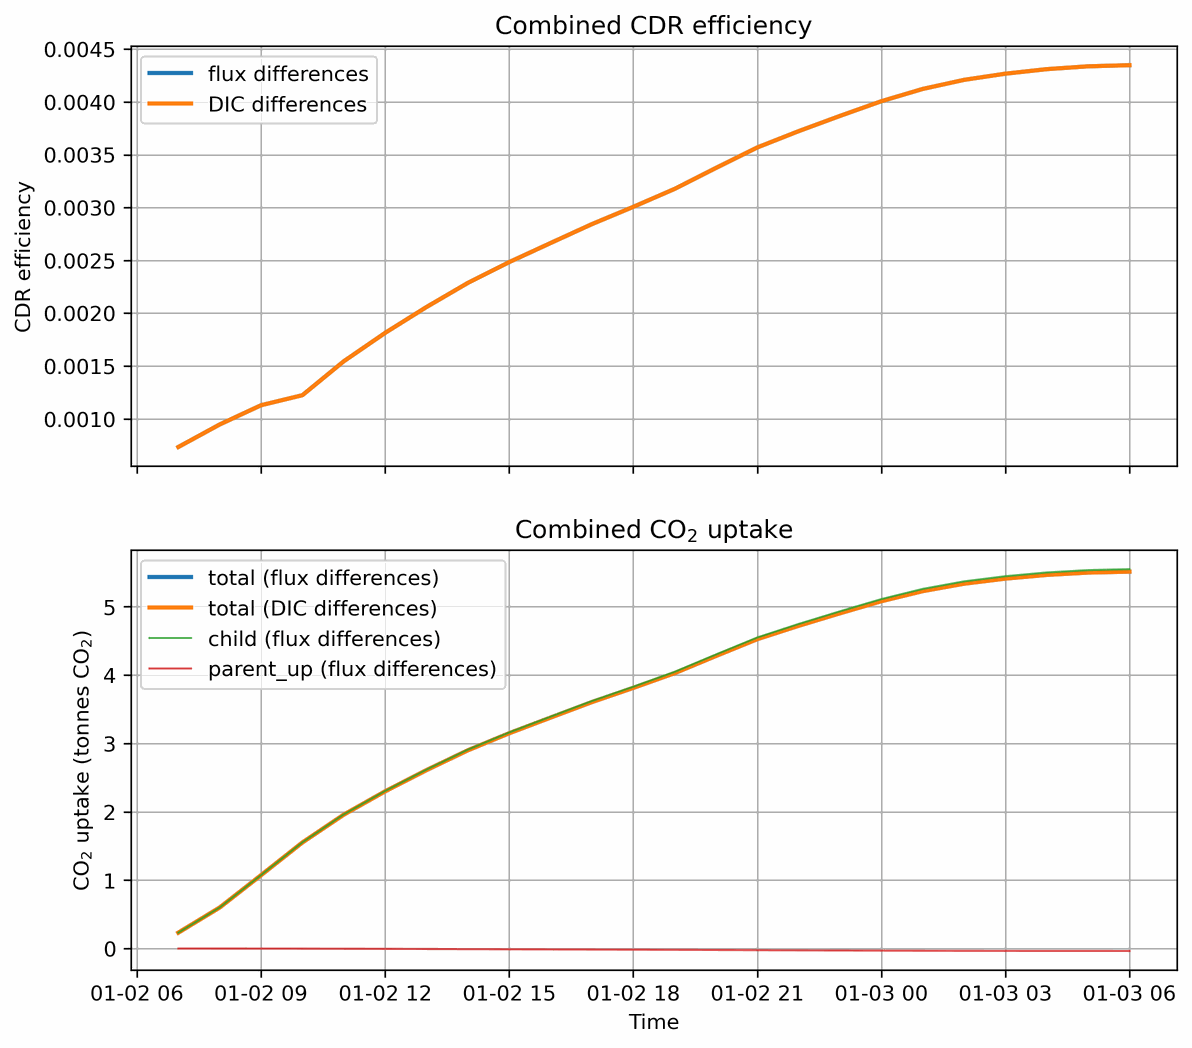
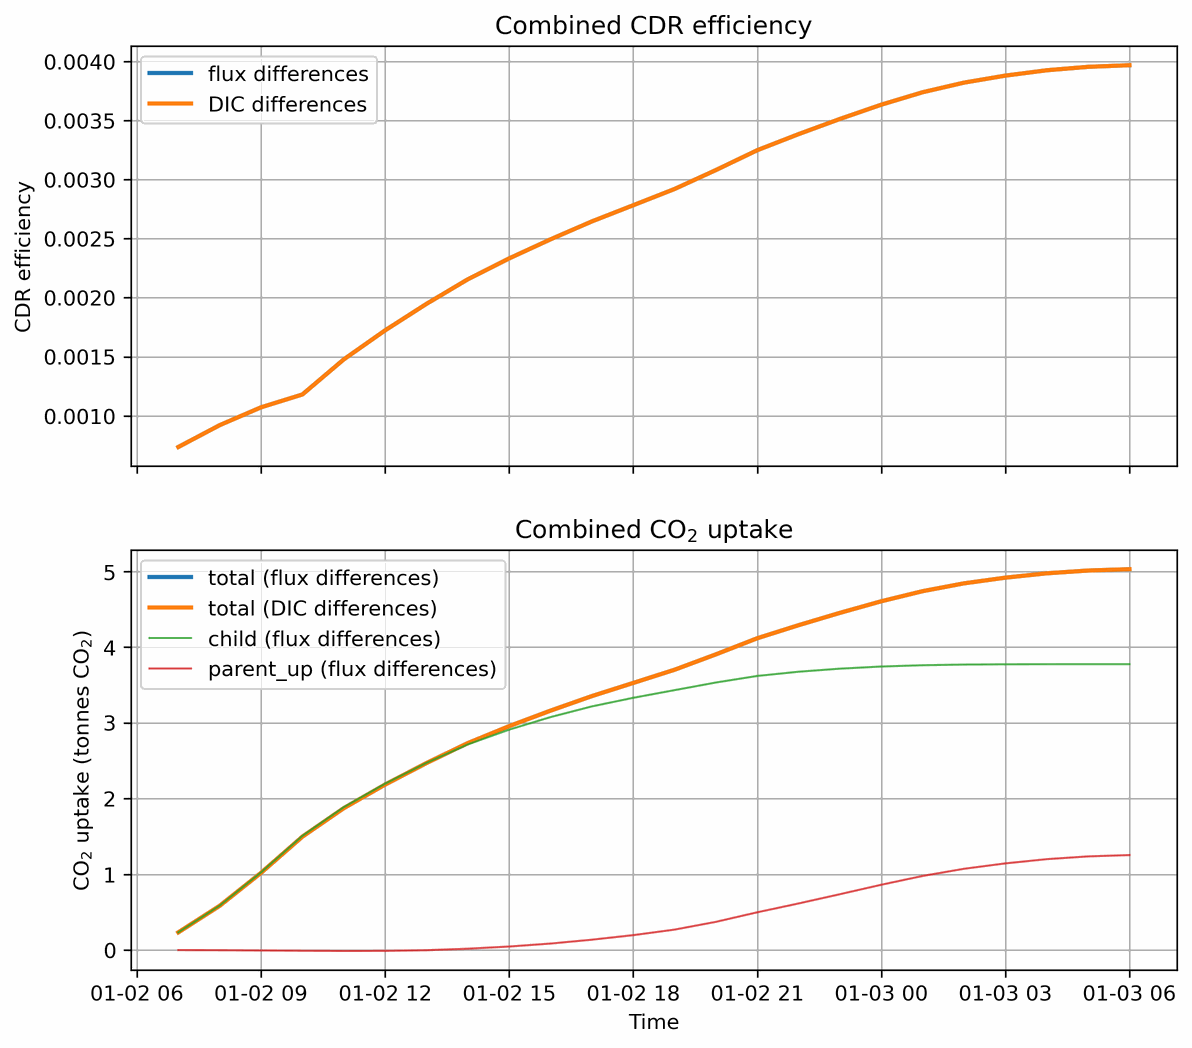
Move the nesting tutorial's release where the current carries it into the parent
The release moves about 25 km south along the child's east boundary, into
the eastward current, so the alkalinity leaves the child within the day
instead of staying in it. The page's reference values, the combined
metrics plot and a new per-domain uptake figure come from a full run of
the tutorial on ucla-roms 0.13.0 and roms-tools 5.3.0: the child's DIC
difference falls back to zero as parent_up's rises, and the combined
budget still closes.

diff --git a/cstar/tests/integration_tests/extended/test_nesting_upscaling_workplan.py b/cstar/tests/integration_tests/extended/test_nesting_upscaling_workplan.py
@@ -107,7 +107,7 @@ MAX_CLOSURE_FRACTION = 1e-3
 
 The two uptakes are two sums over one carbon budget once the child's ``_uscl`` export
 holds the mixing flux (ucla-roms #399) and each domain's metrics leave out its boundary
-rows and columns (roms-tools 5.3.0), so the residual is round-off: 7e-6 on this example.
+rows and columns (roms-tools 5.3.0), so the residual is round-off: 1e-5 on this example.
 """
 NO_MIXING_EXPORT_REFS = ("0.11.0", "0.12.0")
 """ucla-roms releases whose ``_uscl`` export leaves out the mixing flux (before #399)."""

diff --git a/docs/tutorials/nesting_upscaling.rst b/docs/tutorials/nesting_upscaling.rst
@@ -13,7 +13,9 @@ CDR efficiency of the whole release.
 This tutorial runs a tiny version of that workflow on a laptop, from one
 workplan, in about 20 minutes. The parent is a 24 by 24 cell grid over 400 km
 north-west of Scotland. The child is a 24 by 24 cell grid over 100 km inside it, with
-one alkalinity (ALK) release near its east boundary. If workplans,
+one alkalinity (ALK) release near its east boundary, in its southern half. The
+current there carries the alkalinity out of the child within the day, so the
+run shows the release being handed from the child to the parent. If workplans,
 ``continue-from`` or the CDR metrics are new to you, :doc:`cdr_workplan`
 introduces them on a simpler workplan without nesting.
 
@@ -201,26 +203,43 @@ and roms-tools 5.3.0 gave these combined values (rounded):
      - From the flux
      - From the DIC difference
    * - CO2 uptake (tonnes)
-     - 5.51
-     - 5.51
+     - 5.03
+     - 5.03
    * - CDR efficiency
-     - 0.0043
-     - 0.0043
+     - 0.0040
+     - 0.0040
 
 ``closure_residual`` was below 0.001 tonnes, and
-``parent_up_DIC_difference_inside_child`` was -0.006 tonnes. Nearly all of the
-uptake happens in the child: the release lasts four hours and little of it
-leaves the child within the day. Your numbers should be close to these but need
-not match them exactly.
+``parent_up_DIC_difference_inside_child`` was 0.08 tonnes. Your numbers should
+be close to these but need not match them exactly.
 
 .. figure:: ../images/nest-tiny-metrics.png
-   :alt: Combined CDR efficiency and CO2 uptake against time. The flux and DIC-difference curves overlap; the child's uptake rises to about 5.5 tonnes and parent_up's stays near zero
+   :alt: Combined CDR efficiency and CO2 uptake against time. The flux and DIC-difference curves overlap and reach about 5 tonnes; the child's flux-based uptake levels off near 3.8 tonnes while parent_up's rises to about 1.3 tonnes
    :width: 90%
 
    ``cdr_metrics.png`` from the reference run. Top: the combined efficiency,
-   from the CO2 flux and from the DIC difference. Bottom: the combined uptake
-   the same two ways, and the flux-based uptake of each domain. The flux and
-   DIC curves lie on top of each other.
+   from the CO2 flux and from the DIC difference, which lie on top of each
+   other. Bottom: the combined uptake the same two ways, and the flux-based
+   uptake of each domain: the child's levels off as the alkalinity leaves it,
+   and ``parent_up``'s rises.
+
+Each domain's own series show the hand-off. Until about midday on the 2nd the
+alkalinity stays in the child, and its two uptake curves rise together. Then
+the current carries the alkalinity east across the child's boundary, and the
+two views part. The DIC difference counts the perturbation where it is now, so
+the child's falls back to zero as its DIC leaves, and ``parent_up``'s rises to
+nearly the whole 5 tonnes. The flux counts where the CO2 entered the ocean, so
+the child keeps the 3.8 tonnes it took up while it held the alkalinity, and
+``parent_up`` adds 1.3 tonnes after it arrives. Summed over both domains the
+two views agree, which is what ``closure_residual`` checks.
+
+.. figure:: ../images/nest-tiny-domain-uptake.png
+   :alt: Two panels of CO2 uptake against time. Child: the flux-based curve rises to 3.8 tonnes and levels off; the DIC-based curve peaks near 2.6 tonnes and falls back to zero. parent_up: the flux-based curve rises to 1.3 tonnes and the DIC-based curve to 5.1 tonnes, both starting around midday
+   :width: 100%
+
+   Each domain's CO2 uptake in the reference run, from the CO2 flux (solid) and
+   from the DIC difference (dashed): the per-domain series in
+   ``cdr_metrics.nc``.
 
 Where to go next
 ----------------
